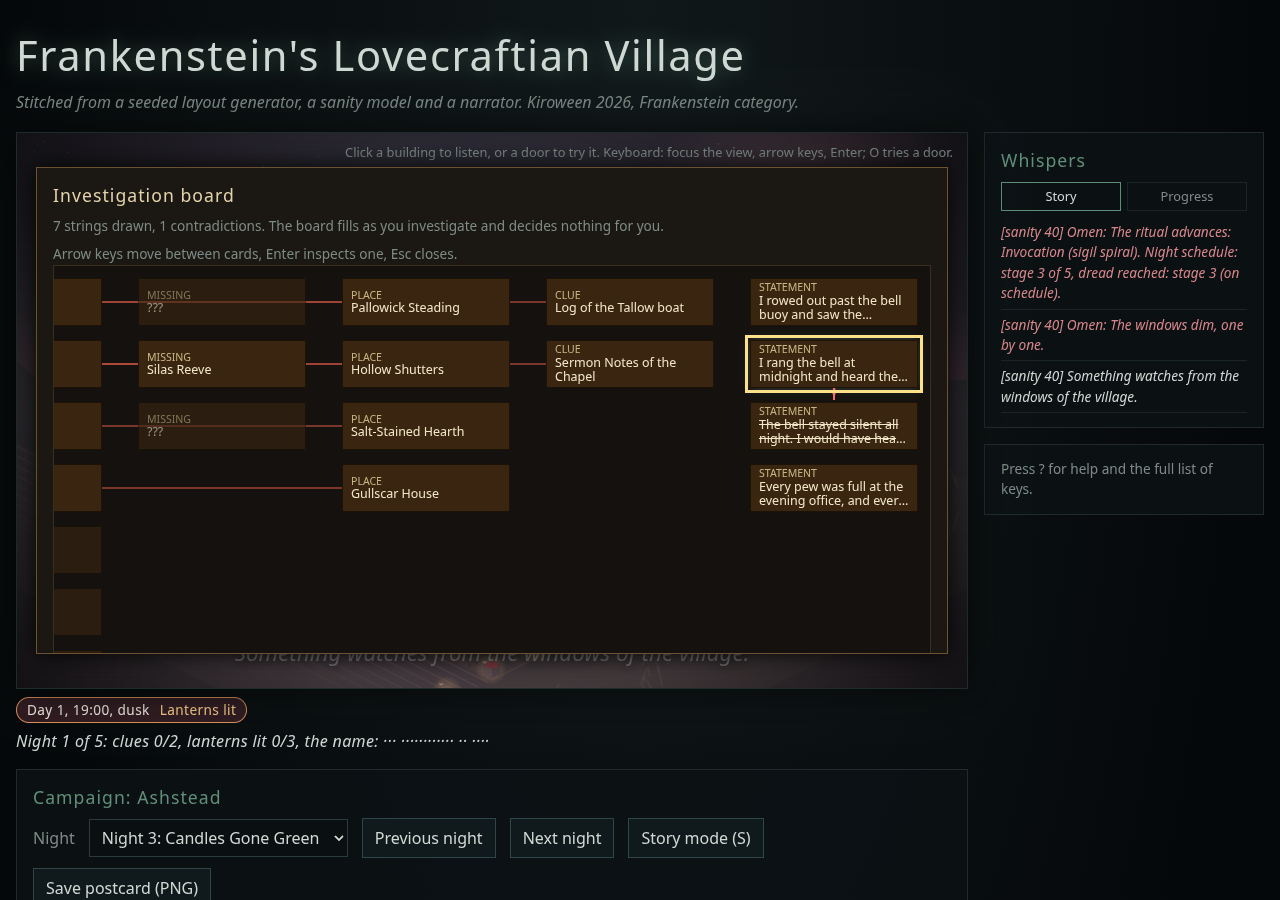
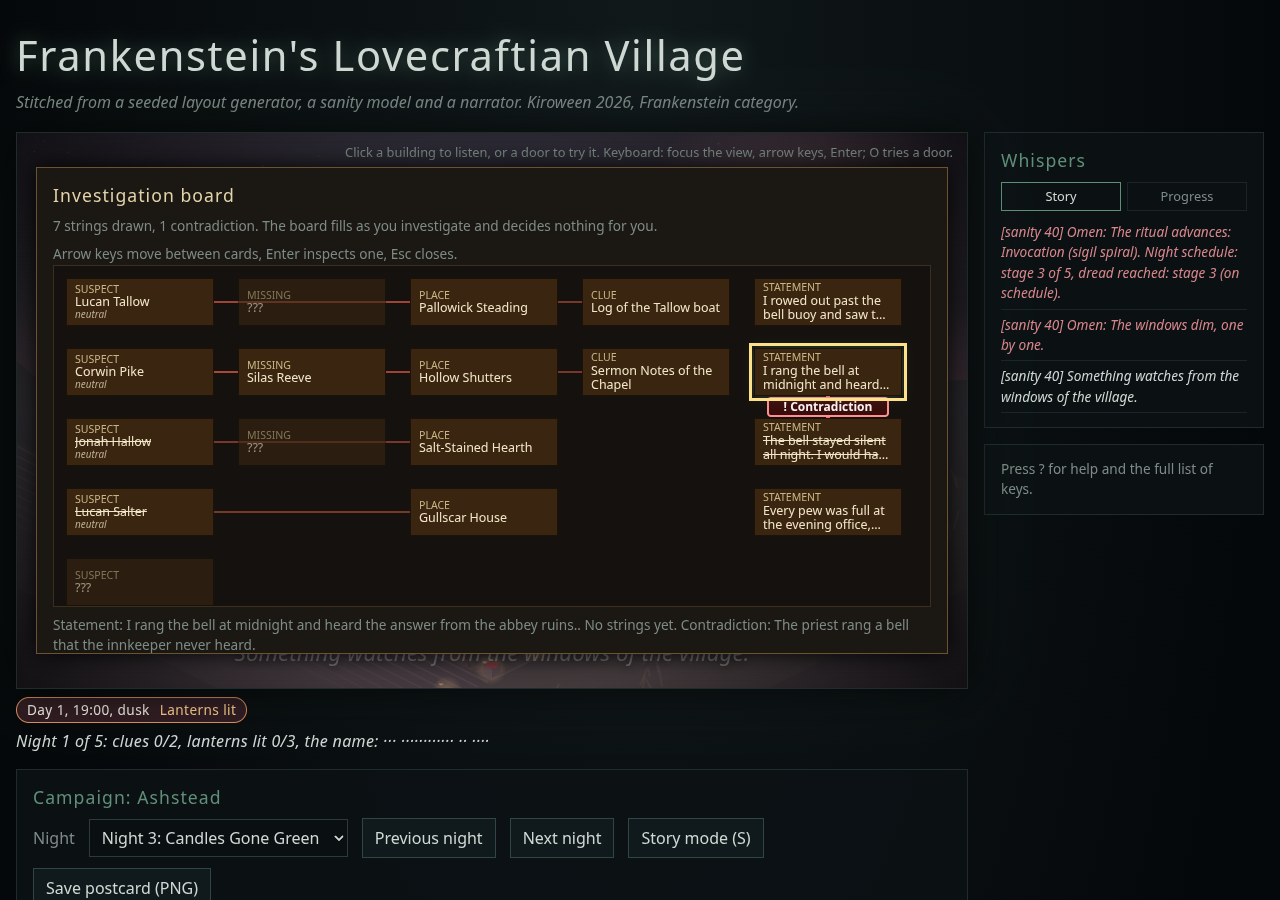
fix: make board columns, contradiction strings and 2D corruption tell legible

diff --git a/web/src/board-ui.js b/web/src/board-ui.js
@@ -10,7 +10,7 @@ import { MINUTES_PER_DAY } from './clock.js';
 export const BOARD_KEY = ';'; // every letter is taken by the main key switch, so the board uses a punctuation key that is unshifted on QWERTY and AZERTY
 export const BOARD_SAVE_TAG = 'bd1';
 export const COLUMN_KINDS = [CARD_SUSPECT, CARD_VICTIM, CARD_LOCATION, CARD_CLUE, CARD_EVENT];
-export const CARD_W = 168, CARD_H = 48, GAP_X = 36, GAP_Y = 14, PAD = 12; // pixels of the board canvas
+export const CARD_W = 148, CARD_H = 48, GAP_X = 24, GAP_Y = 22, PAD = 12; // pixels of the board canvas
 export const MAX_MET = 64, MAX_CLUES = 120, MAX_HEARD = 80;
 export const UNKNOWN_TITLE = '???';
 export const SVG_NS = 'http://www.w3.org/2000/svg';
@@ -166,6 +166,9 @@ export function createBoardController(deps) {
     return Number.isInteger(t) ? t : null;
   }
 
+  /** One or other form of a counted phrase: English counts 1 as singular, French counts 0 and 1. */
+  const plural = (key, n) => tr(`${key}.${n === 1 || (lang() === 'fr' && n === 0) ? 'one' : 'other'}`, { n });
+
   function render() {
     const m = current(), cardsEl = $('boardCards'), linesEl = $('boardLines'), timelineEl = $('boardTimeline'), note = $('boardNote');
     if (!cardsEl || !linesEl || !timelineEl) return;
@@ -173,7 +176,7 @@ export function createBoardController(deps) {
     if (!m) { if (note) note.textContent = tr('board.unavailable'); layout = null; return; }
     const shown = visibleCards(m.cards), shownIds = new Set(shown.map((c) => c.id));
     layout = layoutBoard(shown);
-    if (note) note.textContent = tr('board.note', { n: m.links.filter((l) => l.revealed).length, c: m.contradictions.length });
+    if (note) note.textContent = tr('board.note', { s: plural('board.strings', m.links.filter((l) => l.revealed).length), c: plural('board.contradictions', m.contradictions.length) });
     const wrap = $('boardWrap');
     if (wrap) { wrap.style.setProperty('width', `${layout.width}px`); wrap.style.setProperty('height', `${layout.height}px`); }
     linesEl.setAttribute('viewBox', `0 0 ${layout.width} ${layout.height}`);
@@ -191,7 +194,7 @@ export function createBoardController(deps) {
       flagged.add(c.cardA); flagged.add(c.cardB);
       const a = centre(c.cardA), b = centre(c.cardB), mx = (a.x + b.x) / 2, my = (a.y + b.y) / 2;
       linesEl.append(svgNode('line', { x1: a.x, y1: a.y, x2: b.x, y2: b.y, class: 'board-contradiction-string' }));
-      const badge = svgNode('text', { x: mx, y: my, class: 'board-contradiction-mark', 'text-anchor': 'middle' }); badge.textContent = '!'; linesEl.append(badge);
+      const badge = svgNode('text', { x: mx, y: my + 4, class: 'board-contradiction-mark', 'text-anchor': 'middle' }); badge.textContent = `! ${tr('board.contradiction.label')}`; linesEl.append(svgNode('rect', { x: mx - 60, y: my - 9, width: 120, height: 18, rx: 3, class: 'board-contradiction-badge' }), badge);
     }
     for (const c of shown) {
       const slot = layout.slots.get(c.id), title = titleOf(c.id), contradictory = flagged.has(c.id);

diff --git a/web/style.css b/web/style.css
@@ -203,7 +203,7 @@ html.reduced .loading-ink { animation: none; }
 .board-dialog h2 { margin: 0 0 6px; font-size: 1.1rem; color: #e3d3aa; }
 .board-dialog h3 { margin: 10px 0 4px; font-size: .95rem; color: #c9b583; }
 .board-dialog button { min-height: 32px; background: #3a2610; color: #f2e6c8; border: 1px solid #1c1206; }
-.board-scroll { overflow: auto; max-height: 46vh; border: 1px solid #3a2e1e; background: #14110e; }
+.board-scroll { overflow: auto; max-height: 38vh; border: 1px solid #3a2e1e; background: #14110e; }
 .board-wrap { position: relative; min-width: 100%; }
 .board-lines { position: absolute; left: 0; top: 0; pointer-events: none; }
 .board-string { stroke: #b34a3c; stroke-width: 1.5; opacity: .85; }
@@ -211,8 +211,9 @@ html.reduced .loading-ink { animation: none; }
 @keyframes board-draw { to { stroke-dashoffset: 0; } }
 @media (prefers-reduced-motion: reduce) { .board-draw { animation: none; stroke-dasharray: none; stroke-dashoffset: 0; } }
 html.reduced .board-draw { animation: none; stroke-dasharray: none; stroke-dashoffset: 0; }
-.board-contradiction-string { stroke: #ff6b6b; stroke-width: 2; stroke-dasharray: 6 4; }
-.board-contradiction-mark { fill: #ff6b6b; font-size: 18px; font-weight: bold; }
+.board-contradiction-string { stroke: #ff6b6b; stroke-width: 4; stroke-dasharray: 10 5; opacity: 1; }
+.board-contradiction-badge { fill: #3a0d0d; stroke: #ff8f8f; stroke-width: 2; }
+.board-contradiction-mark { fill: #fff0f0; font-size: 12px; font-weight: bold; }
 .board-card { position: absolute; display: flex; flex-direction: column; justify-content: center; align-items: flex-start; padding: 2px 8px; overflow: hidden; text-align: left; background: #2a2118; color: #eadfc6; border: 1px solid #6b5230; font-size: .78rem; line-height: 1.15; }
 .board-card-kind { font-size: .66rem; color: #c9b583; text-transform: uppercase; }
 .board-card-title { overflow: hidden; text-overflow: ellipsis; display: -webkit-box; -webkit-line-clamp: 2; -webkit-box-orient: vertical; }
@@ -231,7 +232,9 @@ html.hc .board-dialog h2, html.hc .board-dialog h3, html.hc .board-card-kind { c
 html.hc .board-dialog button, html.hc .board-card { background: #000; color: #fff; border: 2px solid #fff; }
 html.hc .board-scroll { background: #000; border-color: #fff; }
 html.hc .board-string { stroke: #fff; opacity: 1; }
-html.hc .board-contradiction-string, html.hc .board-contradiction-mark { stroke: #ff9a9a; fill: #ff9a9a; }
+html.hc .board-contradiction-string { stroke: #fff; }
+html.hc .board-contradiction-badge { fill: #000; stroke: #fff; }
+html.hc .board-contradiction-mark { fill: #fff; }
 html.hc .board-contradiction { border-color: #ff9a9a; }
 html.hc .board-unknown { opacity: 1; border-style: dashed; }
 

diff --git a/web/src/i18n.js b/web/src/i18n.js
@@ -609,7 +609,8 @@ export const STRINGS = {
     "board.timeline": "Timeline",
     "board.timeline.empty": "Nothing is dated yet.",
     "board.timeline.row": "Night {night}, {time}: {text} {who}",
-    "board.note": "{n} strings drawn, {c} contradictions. The board fills as you investigate and decides nothing for you.",
+    "board.strings.one": "{n} string", "board.strings.other": "{n} strings", "board.contradictions.one": "{n} contradiction", "board.contradictions.other": "{n} contradictions", "board.contradiction.label": "Contradiction",
+    "board.note": "{s} drawn, {c}. The board fills as you investigate and decides nothing for you.",
     "board.unavailable": "The board needs the village story, the lore books and the statements data, which are not loaded this session.",
     "board.kind.0": "Suspect",
     "board.kind.1": "Missing",
@@ -1292,7 +1293,8 @@ export const STRINGS = {
     "board.timeline": "Chronologie",
     "board.timeline.empty": "Rien n'est encore date.",
     "board.timeline.row": "Nuit {night}, {time} : {text} {who}",
-    "board.note": "{n} fils tendus, {c} contradictions. Le tableau se remplit au fil de l'enquete et ne decide rien pour vous.",
+    "board.strings.one": "{n} fil tendu", "board.strings.other": "{n} fils tendus", "board.contradictions.one": "{n} contradiction", "board.contradictions.other": "{n} contradictions", "board.contradiction.label": "Contradiction",
+    "board.note": "Tableau : {s} et {c}. Le tableau se remplit au fil de l'enquete et ne decide rien pour vous.",
     "board.unavailable": "Le tableau a besoin de l'histoire du village, des livres et des temoignages, non charges dans cette session.",
     "board.kind.0": "Suspect",
     "board.kind.1": "Disparu",

diff --git a/web/src/draw.js b/web/src/draw.js
@@ -220,7 +220,7 @@ export function createRenderer(env) {
     const sway = reduceMotion ? 0 : Math.sin(time / 900 + v.index * 1.7) * 0.8, tan = Math.tan(tell.lean), at = (h) => sway + tan * h; // lean grows with height, so the head leads the feet
     const coat = mix([54, 46, 40], [40, 10, 14], dread), tinted = tell.tint > 0 ? mix(coat, [82, 112, 116], tell.tint) : coat;
     glow(s.x, s.y, 9, '0,0,0', 0.35);
-    if (tell.aura > 0) glow(s.x + at(9), s.y - 9, 20, AURA_RGB, auraAlpha(tell, time));
+    if (tell.aura > 0) { const aa = auraAlpha(tell, time); glow(s.x + at(9), s.y - 9, 26, AURA_RGB, aa); ctx.strokeStyle = `rgba(${AURA_RGB},${Math.min(0.6, aa * 1.6).toFixed(3)})`; ctx.lineWidth = 1.2; ctx.beginPath(); ctx.arc(s.x + at(9), s.y - 9, 15, 0, 7); ctx.stroke(); } // dim ring marks the aura edge on a small figure; no flashing
     poly([{ x: s.x - 4.2 + at(0), y: s.y }, { x: s.x + 4.2 + at(0), y: s.y }, { x: s.x + 2 + at(13), y: s.y - 13 }, { x: s.x - 2 + at(13), y: s.y - 13 }], tinted);
     ctx.fillStyle = 'rgba(214,190,160,.95)'; ctx.beginPath(); ctx.arc(s.x + at(15.5), s.y - 15.5, 2.4, 0, 7); ctx.fill();
     ctx.fillStyle = tinted; ctx.beginPath(); ctx.moveTo(s.x - 3 + at(15), s.y - 15); ctx.lineTo(s.x + at(21), s.y - 21); ctx.lineTo(s.x + 3 + at(15), s.y - 15); ctx.fill();

diff --git a/web/test/board-ui.test.js b/web/test/board-ui.test.js
@@ -165,3 +165,12 @@ test('en and fr board strings exist, match placeholders and carry no em dash', (
     assert.ok(!STRINGS.en[k].includes('\u2014') && !STRINGS.fr[k].includes('\u2014'), k);
   }
 });
+
+test('the board note and the contradiction badge use singular and plural forms in en and fr', () => {
+  assert.equal(t('board.contradictions.one', 'en', { n: 1 }), '1 contradiction');
+  assert.equal(t('board.contradictions.other', 'en', { n: 2 }), '2 contradictions');
+  assert.equal(t('board.strings.one', 'fr', { n: 1 }), '1 fil tendu');
+  assert.equal(t('board.strings.other', 'fr', { n: 7 }), '7 fils tendus');
+  assert.match(t('board.note', 'en', { s: '7 strings', c: '1 contradiction' }), /7 strings drawn, 1 contradiction\./);
+  assert.ok(t('board.contradiction.label', 'fr') !== 'board.contradiction.label');
+});

diff --git a/web/src/corruption-tell.js b/web/src/corruption-tell.js
@@ -13,9 +13,9 @@ const NO_TELL = Object.freeze({ stage: CORRUPTION_NONE, lean: 0, aura: 0, tint: 
 const TELLS = [
   NO_TELL,
   Object.freeze({ stage: CORRUPTION_UNEASY, lean: 0.03, aura: 0, tint: 0, lantern: false }),
-  Object.freeze({ stage: CORRUPTION_CORRUPTED, lean: 0.09, aura: 0.16, tint: 0.25, lantern: true }),
-  Object.freeze({ stage: CORRUPTION_CULTIST, lean: 0.14, aura: 0.24, tint: 0.4, lantern: true }),
-  Object.freeze({ stage: CORRUPTION_MISSING, lean: 0.14, aura: 0.24, tint: 0.4, lantern: true }),
+  Object.freeze({ stage: CORRUPTION_CORRUPTED, lean: 0.12, aura: 0.24, tint: 0.25, lantern: true }),
+  Object.freeze({ stage: CORRUPTION_CULTIST, lean: 0.18, aura: 0.34, tint: 0.4, lantern: true }),
+  Object.freeze({ stage: CORRUPTION_MISSING, lean: 0.18, aura: 0.34, tint: 0.4, lantern: true }),
 ];
 
 /**
